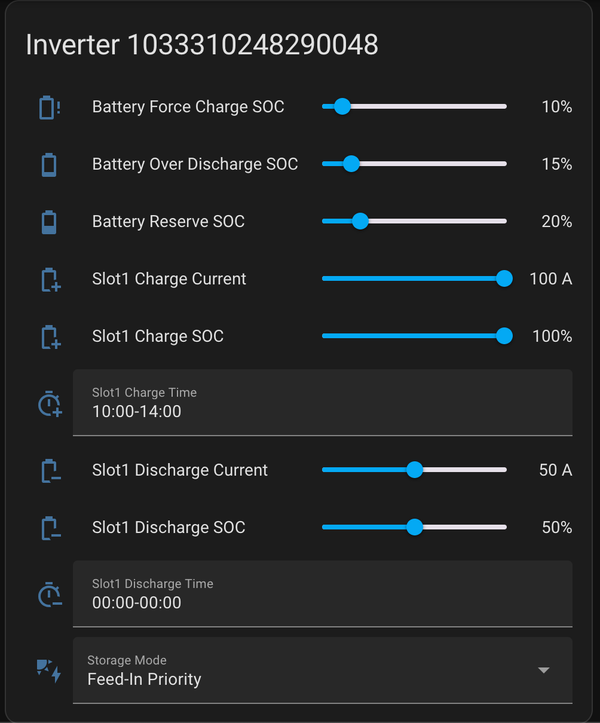
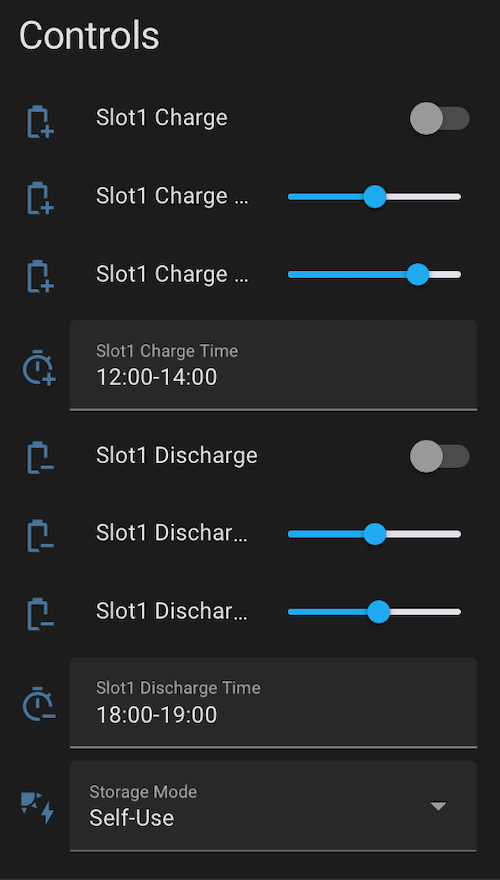
feat: charge/discharge time switch

diff --git a/custom_components/solis_cloud_control/sensor.py b/custom_components/solis_cloud_control/sensor.py
@@ -1,0 +1,79 @@
+from homeassistant.components.sensor import SensorDeviceClass, SensorEntity, SensorEntityDescription
+from homeassistant.config_entries import ConfigEntry
+from homeassistant.const import PERCENTAGE
+from homeassistant.core import HomeAssistant
+from homeassistant.helpers.entity_platform import AddEntitiesCallback
+
+from .const import (
+    CID_BATTERY_FORCE_CHARGE_SOC,
+    CID_BATTERY_OVER_DISCHARGE_SOC,
+    CID_BATTERY_RECOVERY_SOC,
+    CID_BATTERY_RESERVE_SOC,
+)
+from .coordinator import SolisCloudControlCoordinator
+from .entity import SolisCloudControlEntity
+
+
+async def async_setup_entry(
+    hass: HomeAssistant,  # noqa: ARG001
+    entry: ConfigEntry,
+    async_add_entities: AddEntitiesCallback,
+) -> None:
+    coordinator: SolisCloudControlCoordinator = entry.runtime_data
+    async_add_entities(
+        [
+            BatterySocSensor(
+                coordinator=coordinator,
+                entity_description=SensorEntityDescription(
+                    key="battery_force_charge_soc",
+                    name="Battery Force Charge SOC",
+                    icon="mdi:battery-alert-variant-outline",
+                ),
+                cid=CID_BATTERY_FORCE_CHARGE_SOC,
+            ),
+            BatterySocSensor(
+                coordinator=coordinator,
+                entity_description=SensorEntityDescription(
+                    key="battery_over_discharge_soc",
+                    name="Battery Over Discharge SOC",
+                    icon="mdi:battery-50",
+                ),
+                cid=CID_BATTERY_OVER_DISCHARGE_SOC,
+            ),
+            BatterySocSensor(
+                coordinator=coordinator,
+                entity_description=SensorEntityDescription(
+                    key="battery_recovery_soc",
+                    name="Battery Recovery SOC",
+                    icon="mdi:battery-50",
+                ),
+                cid=CID_BATTERY_RECOVERY_SOC,
+            ),
+            BatterySocSensor(
+                coordinator=coordinator,
+                entity_description=SensorEntityDescription(
+                    key="battery_reserve_soc",
+                    name="Battery Reserve SOC",
+                    icon="mdi:battery-50",
+                ),
+                cid=CID_BATTERY_RESERVE_SOC,
+            ),
+        ]
+    )
+
+
+class BatterySocSensor(SolisCloudControlEntity, SensorEntity):
+    def __init__(
+        self, coordinator: SolisCloudControlCoordinator, entity_description: SensorEntityDescription, cid: int
+    ) -> None:
+        super().__init__(coordinator, entity_description, cid)
+        self._attr_device_class = SensorDeviceClass.BATTERY
+        self._attr_native_unit_of_measurement = PERCENTAGE
+
+    @property
+    def native_value(self) -> float | None:
+        if not self.coordinator.data:
+            return None
+
+        value_str = self.coordinator.data.get(self.cid)
+        return float(value_str) if value_str is not None else None

diff --git a/custom_components/solis_cloud_control/number.py b/custom_components/solis_cloud_control/number.py
@@ -5,9 +5,7 @@ from homeassistant.core import HomeAssistant
 from homeassistant.helpers.entity_platform import AddEntitiesCallback
 
 from .const import (
-    CID_BATTERY_FORCE_CHARGE_SOC,
     CID_BATTERY_OVER_DISCHARGE_SOC,
-    CID_BATTERY_RESERVE_SOC,
     CID_CHARGE_SLOT1_CURRENT,
     CID_CHARGE_SLOT1_SOC,
     CID_DISCHARGE_SLOT1_CURRENT,
@@ -61,33 +59,6 @@ async def async_setup_entry(
                 ),
                 cid=CID_DISCHARGE_SLOT1_SOC,
             ),
-            BatterySoc(
-                coordinator=coordinator,
-                entity_description=NumberEntityDescription(
-                    key="battery_reserve_soc",
-                    name="Battery Reserve SOC",
-                    icon="mdi:battery-30",
-                ),
-                cid=CID_BATTERY_RESERVE_SOC,
-            ),
-            BatterySoc(
-                coordinator=coordinator,
-                entity_description=NumberEntityDescription(
-                    key="battery_over_discharge_soc",
-                    name="Battery Over Discharge SOC",
-                    icon="mdi:battery-10",
-                ),
-                cid=CID_BATTERY_OVER_DISCHARGE_SOC,
-            ),
-            BatterySoc(
-                coordinator=coordinator,
-                entity_description=NumberEntityDescription(
-                    key="battery_force_charge_soc",
-                    name="Battery Force Charge SOC",
-                    icon="mdi:battery-alert-variant-outline",
-                ),
-                cid=CID_BATTERY_FORCE_CHARGE_SOC,
-            ),
         ]
     )
 
@@ -122,11 +93,17 @@ class BatterySoc(SolisCloudControlEntity, NumberEntity):
         self, coordinator: SolisCloudControlCoordinator, cid: int, entity_description: NumberEntityDescription
     ) -> None:
         super().__init__(coordinator, entity_description, cid)
-        self._attr_native_min_value = 0  # TODO: battery over discharge + 1
         self._attr_native_max_value = 100
         self._attr_native_step = 1
         self._attr_device_class = NumberDeviceClass.BATTERY
         self._attr_native_unit_of_measurement = PERCENTAGE
+
+    @property
+    def native_min_value(self) -> float:
+        if not self.coordinator.data:
+            return 0
+        over_discharge_str = self.coordinator.data.get(CID_BATTERY_OVER_DISCHARGE_SOC)
+        return float(over_discharge_str) + 1 if over_discharge_str is not None else 0
 
     @property
     def native_value(self) -> float | None:

diff --git a/custom_components/solis_cloud_control/text.py b/custom_components/solis_cloud_control/text.py
@@ -1,7 +1,10 @@
 from homeassistant.components.text import TextEntity, TextEntityDescription
 from homeassistant.config_entries import ConfigEntry
 from homeassistant.core import HomeAssistant
+from homeassistant.exceptions import InvalidEntityFormatError
 from homeassistant.helpers.entity_platform import AddEntitiesCallback
+
+from custom_components.solis_cloud_control.utils import validate_time_range
 
 from .const import CID_CHARGE_SLOT1_TIME, CID_DISCHARGE_SLOT1_TIME
 from .coordinator import SolisCloudControlCoordinator
@@ -58,5 +61,8 @@ class TimeSlotText(SolisCloudControlEntity, TextEntity):
         return self.coordinator.data.get(self.cid)
 
     async def async_set_value(self, value: str) -> None:
+        if not validate_time_range(value):
+            raise InvalidEntityFormatError(f"Invalid time range: {value}")
+
         await self.coordinator.api_client.control(self.coordinator.inverter_sn, self.cid, value)
         await self.coordinator.async_request_refresh()

diff --git a/custom_components/solis_cloud_control/switch.py b/custom_components/solis_cloud_control/switch.py
@@ -53,9 +53,9 @@ class SlotSwitch(SolisCloudControlEntity, SwitchEntity):
         return value == "1" if value is not None else None
 
     async def async_turn_on(self, **kwargs: dict[str, any]) -> None:  # noqa: ARG002
-        await self.coordinator.api_client.control(self.coordinator.inverter_sn, self.cid, "1")
+        await self.coordinator.api_client.control(self.coordinator.inverter_sn, self.cid, "1", "0")
         await self.coordinator.async_request_refresh()
 
     async def async_turn_off(self, **kwargs: dict[str, any]) -> None:  # noqa: ARG002
-        await self.coordinator.api_client.control(self.coordinator.inverter_sn, self.cid, "0")
+        await self.coordinator.api_client.control(self.coordinator.inverter_sn, self.cid, "0", "1")
         await self.coordinator.async_request_refresh()

diff --git a/custom_components/solis_cloud_control/coordinator.py b/custom_components/solis_cloud_control/coordinator.py
@@ -9,6 +9,7 @@ from custom_components.solis_cloud_control.api import SolisCloudControlApiClient
 from custom_components.solis_cloud_control.const import (
     CID_BATTERY_FORCE_CHARGE_SOC,
     CID_BATTERY_OVER_DISCHARGE_SOC,
+    CID_BATTERY_RECOVERY_SOC,
     CID_BATTERY_RESERVE_SOC,
     CID_CHARGE_SLOT1_CURRENT,
     CID_CHARGE_SLOT1_SOC,
@@ -29,9 +30,10 @@ _NAME = "Solis Cloud Control"
 _UPDATE_INTERVAL = timedelta(minutes=5)
 
 _ALL_CIDS = [
-    CID_BATTERY_RESERVE_SOC,
     CID_BATTERY_FORCE_CHARGE_SOC,
     CID_BATTERY_OVER_DISCHARGE_SOC,
+    CID_BATTERY_RECOVERY_SOC,
+    CID_BATTERY_RESERVE_SOC,
     CID_CHARGE_SLOT1_CURRENT,
     CID_CHARGE_SLOT1_SOC,
     CID_CHARGE_SLOT1_SWITCH,

diff --git a/custom_components/solis_cloud_control/api.py b/custom_components/solis_cloud_control/api.py
@@ -164,9 +164,11 @@ class SolisCloudControlApiClient:
         interval=API_RETRY_DELAY_SECONDS,
         logger=_LOGGER,
     )
-    async def control(self, inverter_sn: str, cid: int, value: str) -> None:
+    async def control(self, inverter_sn: str, cid: int, value: str, old_value: str | None = None) -> None:
         date = current_date()
         payload = {"inverterSn": inverter_sn, "cid": cid, "value": value}
+        if old_value is not None:
+            payload["yuanzhi"] = old_value
 
         data_array = await self._request(date, API_CONTROL_ENDPOINT, payload)
 

diff --git a/custom_components/solis_cloud_control/utils.py b/custom_components/solis_cloud_control/utils.py
@@ -23,3 +23,16 @@ def sign_authorization(key: str, message: str) -> str:
         digestmod=hashlib.sha1,
     )
     return base64.b64encode(hmac_object.digest()).decode("utf-8")
+
+
+def validate_time_range(value: str) -> bool:
+    if len(value) != 11 or value.count("-") != 1:
+        return False
+
+    try:
+        from_str, to_str = value.split("-")
+        from_time = datetime.strptime(from_str, "%H:%M")
+        to_time = datetime.strptime(to_str, "%H:%M")
+        return to_time >= from_time
+    except ValueError:
+        return False

diff --git a/custom_components/solis_cloud_control/__init__.py b/custom_components/solis_cloud_control/__init__.py
@@ -9,7 +9,7 @@ from custom_components.solis_cloud_control.coordinator import SolisCloudControlC
 from .api import SolisCloudControlApiClient
 from .const import CONF_INVERTER_SN
 
-PLATFORMS: list[Platform] = [Platform.SELECT, Platform.TEXT, Platform.NUMBER, Platform.SWITCH]
+PLATFORMS: list[Platform] = [Platform.SELECT, Platform.TEXT, Platform.NUMBER, Platform.SWITCH, Platform.SENSOR]
 
 
 async def async_setup_entry(hass: HomeAssistant, entry: ConfigEntry) -> bool:

diff --git a/custom_components/solis_cloud_control/const.py b/custom_components/solis_cloud_control/const.py
@@ -14,6 +14,7 @@ API_CONCURRENT_REQUESTS = 2
 CID_BATTERY_RESERVE_SOC = 157
 CID_BATTERY_OVER_DISCHARGE_SOC = 158
 CID_BATTERY_FORCE_CHARGE_SOC = 160
+CID_BATTERY_RECOVERY_SOC = 7229
 CID_STORAGE_MODE = 636
 CID_CHARGE_SLOT1_SWITCH = 5916
 CID_CHARGE_SLOT1_TIME = 5946

diff --git a/README.md b/README.md
@@ -38,16 +38,19 @@ Configure Solis Cloud Control integration with:
 
 ## Features
 
-![Inverter Controls](inverter_controls.png)
-
-Functional:
+Integration supports:
 
 * ⚡ Storage Modes: "Self-Use", "Feed-In Priority"
-* 🛠 "Battery Reserve" and "Allow Grid Charging" options as Storage Mode attributes
 * ⏱ Charge/Discharge Slots
-* 🔋 Battery Reserve SOC, Over Discharge SOC and Force Charge SOC
+* 🛠 "Battery Reserve" and "Allow Grid Charging" options as Storage Mode attributes
 
-Non-functional:
+![Inverter Controls](inverter_controls.png)
+
+It also provides battery related sensors:
+
+![Inverter Sensors](inverter_sensors.png)
+
+The integration also meets several non-functional requirements:
 
 * 📦 Batch reading of all inverter settings in a single request to fit within the API limits
 * 🔄 Retry logic for API requests to mitigate API stability issues
